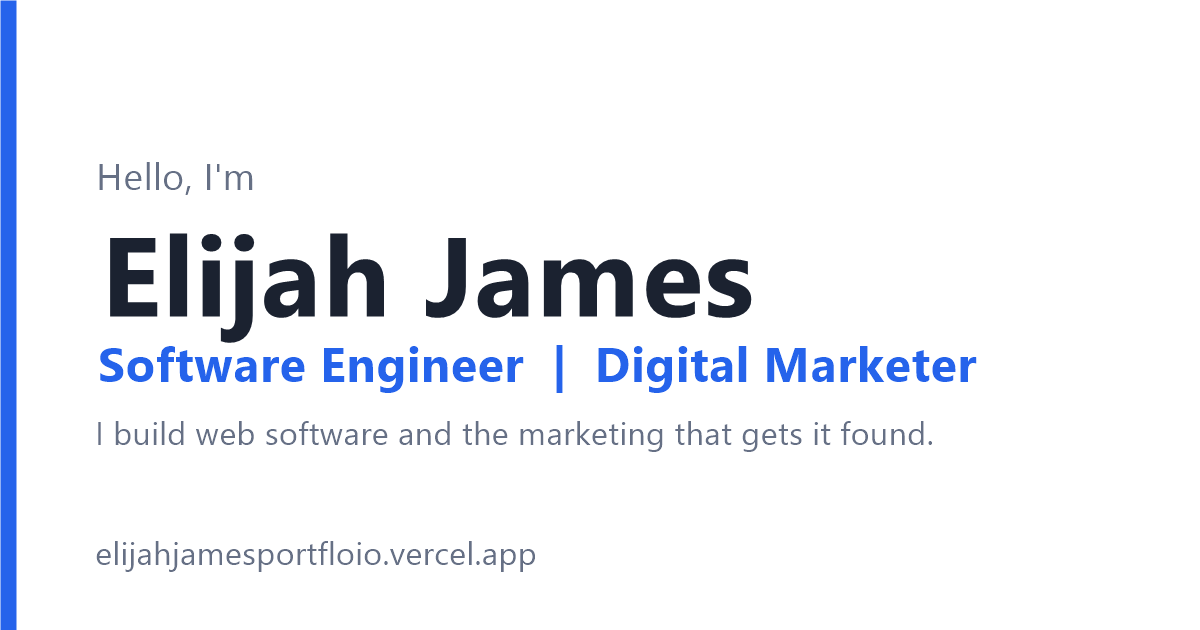
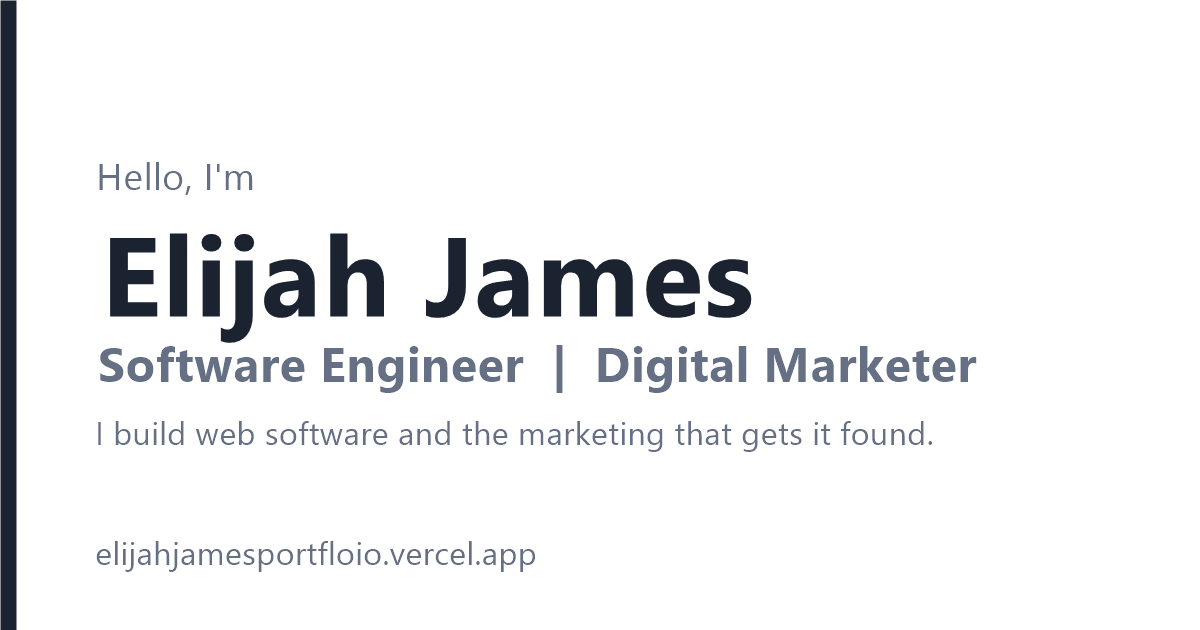
Replace blue accent with charcoal, keep white background

Changed region(s): [[0.0, 0.0, 0.0308, 1.0], [0.4625, 0.5429, 0.8325, 0.6333], [0.0617, 0.5429, 0.4317, 0.6333]]

diff --git a/assets/css/main.css b/assets/css/main.css
@@ -6,9 +6,9 @@
   --line: #e6e9ef;
   --bg: #ffffff;
   --soft: #f8f9fb;
-  --accent: #2563eb;
-  --accent-dark: #1d4ed8;
-  --accent-soft: #eef3ff;
+  --accent: #1b2230;
+  --accent-dark: #000000;
+  --accent-soft: #f1f3f6;
   --header-bg: rgba(255, 255, 255, 0.92);
   --header-h: 60px;
   --ease: cubic-bezier(0.22, 0.61, 0.36, 1);
@@ -20,9 +20,9 @@
   --line: #243049;
   --bg: #0e1522;
   --soft: #121b2b;
-  --accent: #6b96ff;
-  --accent-dark: #86a9ff;
-  --accent-soft: #1a2747;
+  --accent: #e8edf5;
+  --accent-dark: #ffffff;
+  --accent-soft: #1c2535;
   --header-bg: rgba(14, 21, 34, 0.92);
 }
 :root[data-theme="dark"] .btn { color: #0e1522; }
@@ -110,7 +110,7 @@ h1 { font-size: clamp(1.9rem, 3.4vw, 2.5rem); line-height: 1.15; letter-spacing:
   border: 1.5px solid var(--accent); font-weight: 600; font-size: 0.88rem;
   transition: transform 0.25s var(--ease), background 0.25s, box-shadow 0.25s var(--ease), color 0.25s;
 }
-.btn:hover { background: var(--accent-dark); border-color: var(--accent-dark); color: #fff; transform: translateY(-2px); box-shadow: 0 8px 18px rgba(37, 99, 235, 0.22); }
+.btn:hover { background: var(--accent-dark); border-color: var(--accent-dark); color: #fff; transform: translateY(-2px); box-shadow: 0 8px 18px rgba(27, 34, 48, 0.18); }
 .btn-outline { background: var(--bg); color: var(--accent); }
 .btn-outline:hover { background: var(--accent); color: #fff; }
 
@@ -130,13 +130,13 @@ h3 { font-size: 1rem; margin-bottom: 6px; font-weight: 600; }
   position: relative; height: 100%; background: var(--bg); border: 1px solid var(--line); border-radius: 8px; padding: 22px;
   transition: transform 0.3s var(--ease), box-shadow 0.3s var(--ease), border-color 0.3s var(--ease);
 }
-.card:hover { transform: translateY(-4px); border-color: var(--accent); box-shadow: 0 12px 28px rgba(37, 99, 235, 0.1); }
+.card:hover { transform: translateY(-4px); border-color: var(--accent); box-shadow: 0 12px 28px rgba(27, 34, 48, 0.08); }
 .card p { color: var(--muted); font-size: 0.9rem; }
 .card-num { display: block; font-size: 0.78rem; font-weight: 600; color: var(--accent); margin-bottom: 10px; }
 
 .chips { display: flex; flex-wrap: wrap; gap: 6px; margin-top: 14px; }
 .chip { padding: 2px 10px; border-radius: 4px; background: var(--soft); border: 1px solid var(--line); font-size: 0.74rem; font-weight: 500; color: var(--text); transition: background 0.2s, border-color 0.2s, color 0.2s; }
-.card:hover .chip, .skill-card:hover .chip { border-color: #cdd9f7; }
+.card:hover .chip, .skill-card:hover .chip { border-color: #cfd4dd; }
 .chip:hover { background: var(--accent-soft); color: var(--accent); }
 .chip-accent { background: var(--accent-soft); border-color: transparent; color: var(--accent); }
 
@@ -150,7 +150,7 @@ h3 { font-size: 1rem; margin-bottom: 6px; font-weight: 600; }
 /* Skills */
 .skill-grid { display: grid; grid-template-columns: repeat(auto-fit, minmax(220px, 1fr)); gap: 18px; }
 .skill-card { height: 100%; background: var(--bg); border: 1px solid var(--line); border-radius: 8px; padding: 20px; transition: transform 0.3s var(--ease), border-color 0.3s, box-shadow 0.3s var(--ease); }
-.skill-card:hover { transform: translateY(-4px); border-color: var(--accent); box-shadow: 0 12px 28px rgba(37, 99, 235, 0.1); }
+.skill-card:hover { transform: translateY(-4px); border-color: var(--accent); box-shadow: 0 12px 28px rgba(27, 34, 48, 0.08); }
 .skill-card h3 { font-size: 0.74rem; color: var(--muted); text-transform: uppercase; letter-spacing: 0.1em; font-weight: 600; }
 
 /* Marketing process */
@@ -262,7 +262,7 @@ h3 { font-size: 1rem; margin-bottom: 6px; font-weight: 600; }
   display: block; margin-top: 48px; padding: 18px 22px; border: 1px solid var(--line); border-radius: 8px; color: var(--text);
   transition: border-color 0.3s var(--ease), transform 0.3s var(--ease), box-shadow 0.3s var(--ease);
 }
-.next-card:hover { border-color: var(--accent); transform: translateY(-3px); box-shadow: 0 12px 28px rgba(37, 99, 235, 0.1); }
+.next-card:hover { border-color: var(--accent); transform: translateY(-3px); box-shadow: 0 12px 28px rgba(27, 34, 48, 0.08); }
 .next-card small { display: block; color: var(--muted); font-size: 0.74rem; text-transform: uppercase; letter-spacing: 0.1em; }
 .next-card span { font-weight: 600; }
 .prose { margin-top: 28px; display: grid; gap: 16px; color: var(--text); }
